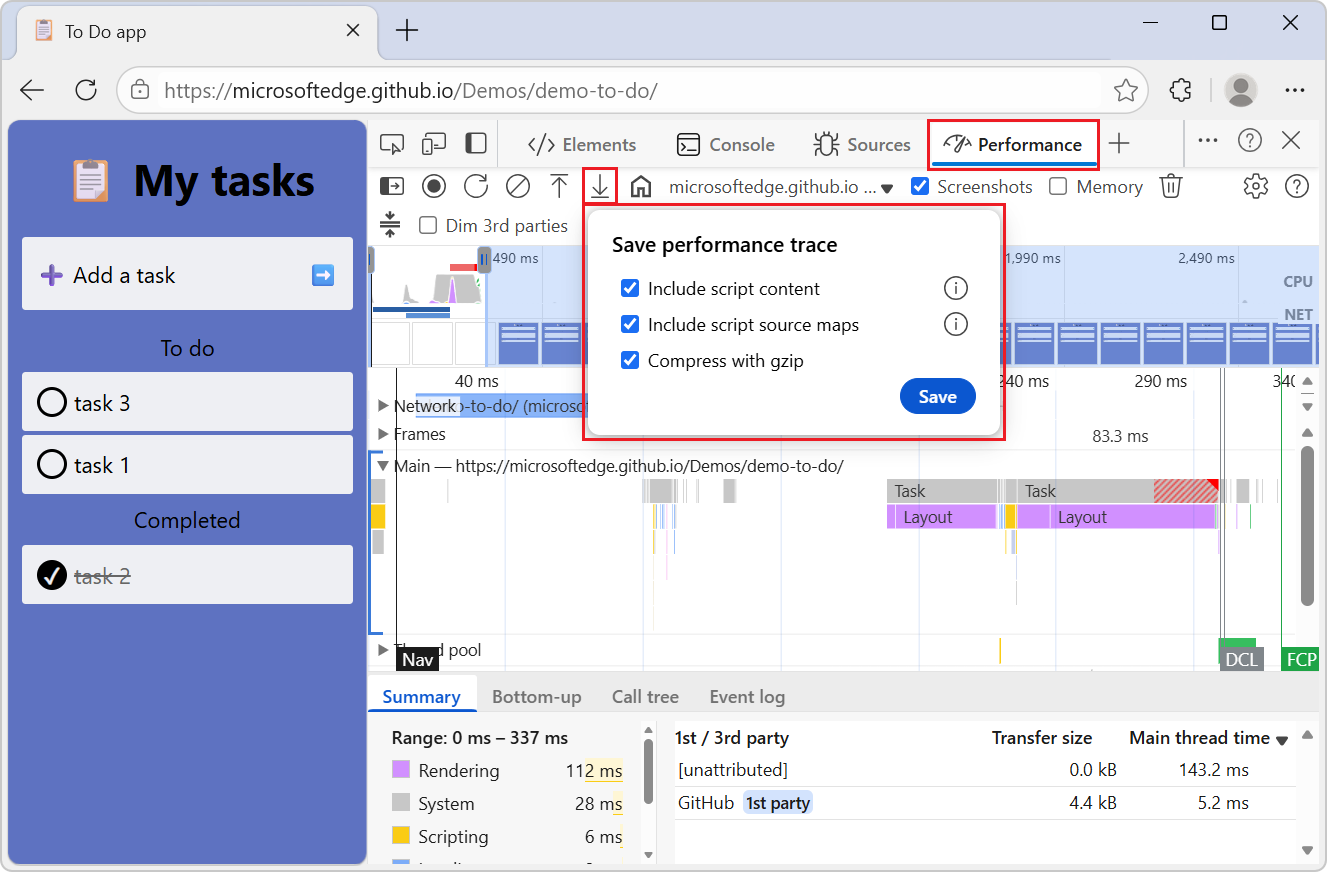
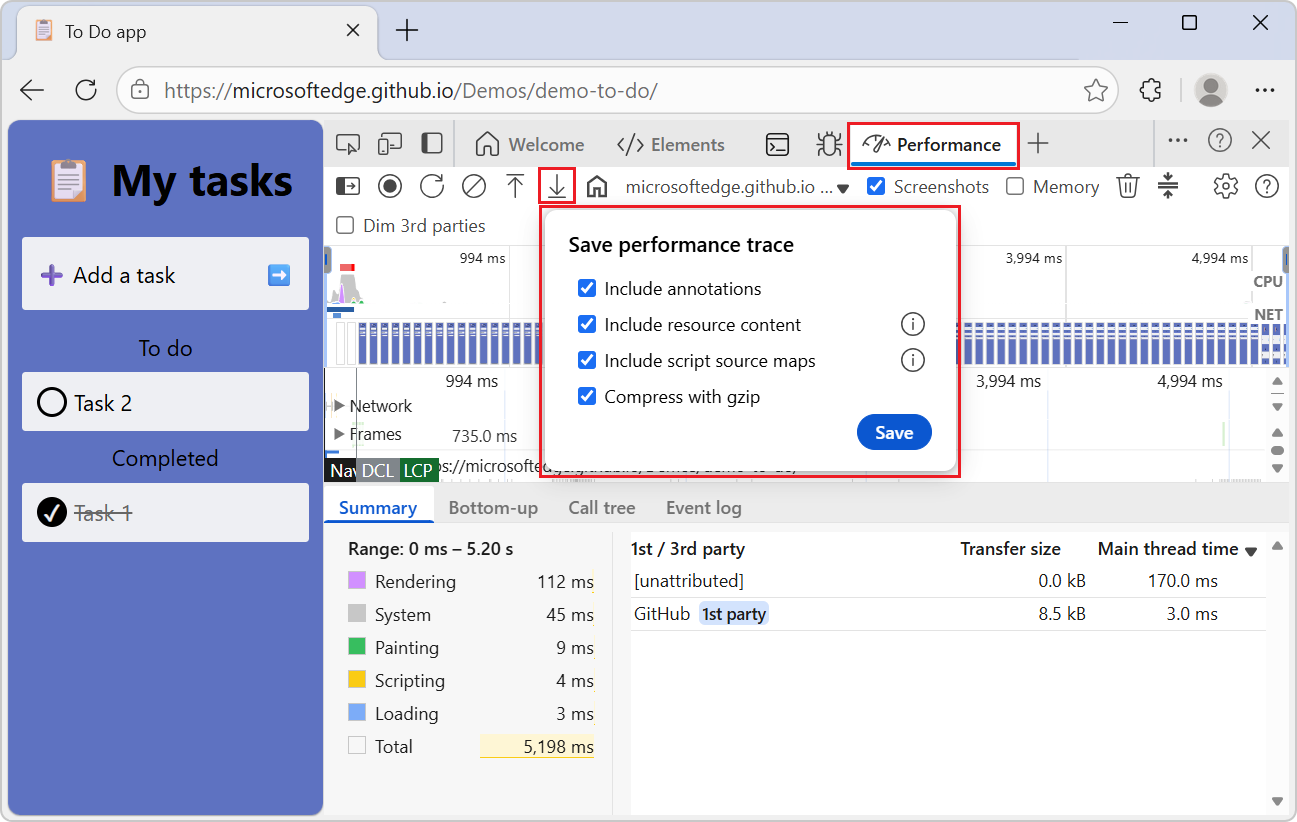
update png and content for loading a trace

diff --git a/microsoft-edge/devtools/performance/share-performance-traces.md b/microsoft-edge/devtools/performance/share-performance-traces.md
@@ -179,11 +179,11 @@ To open a saved trace file in DevTools:
 
 1. Click the **Open** button.
 
-   A special DevTools tab opens in the browser, entirely filled with DevTools, consisting only of the **Sources** and **Performance** tools:
+   A special DevTools tab opens in the browser, entirely filled with DevTools, opening the **Sources** and **Performance** tools:
 
    ![Special DevTools tab](./share-performance-traces-images/devtools-tab.png)
 
-   This is a special DevTools-dedicated tab of the browser, rather than the undocked DevTools window.
+   This is a special DevTools-dedicated tab of the browser, rather than the undocked DevTools window. A few other relevant tools that could be useful for analyzing the trace can be accessed by clicking the "More tools" button. 
 
    The Address bar displays a special URL, such as:
    * `devtools://devtools/bundled/trace_app.html`
